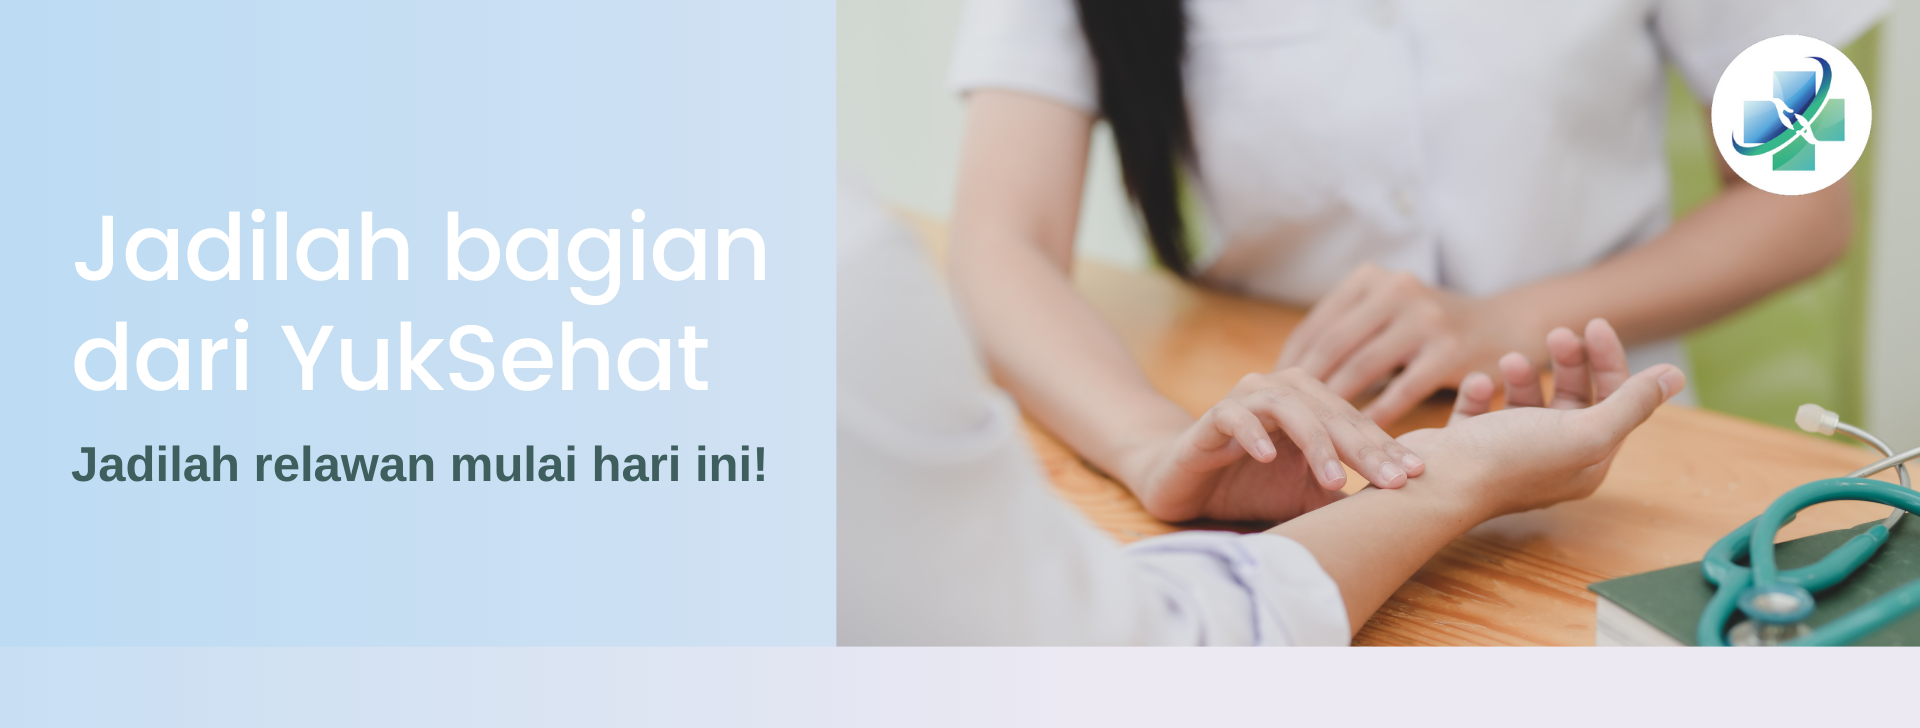
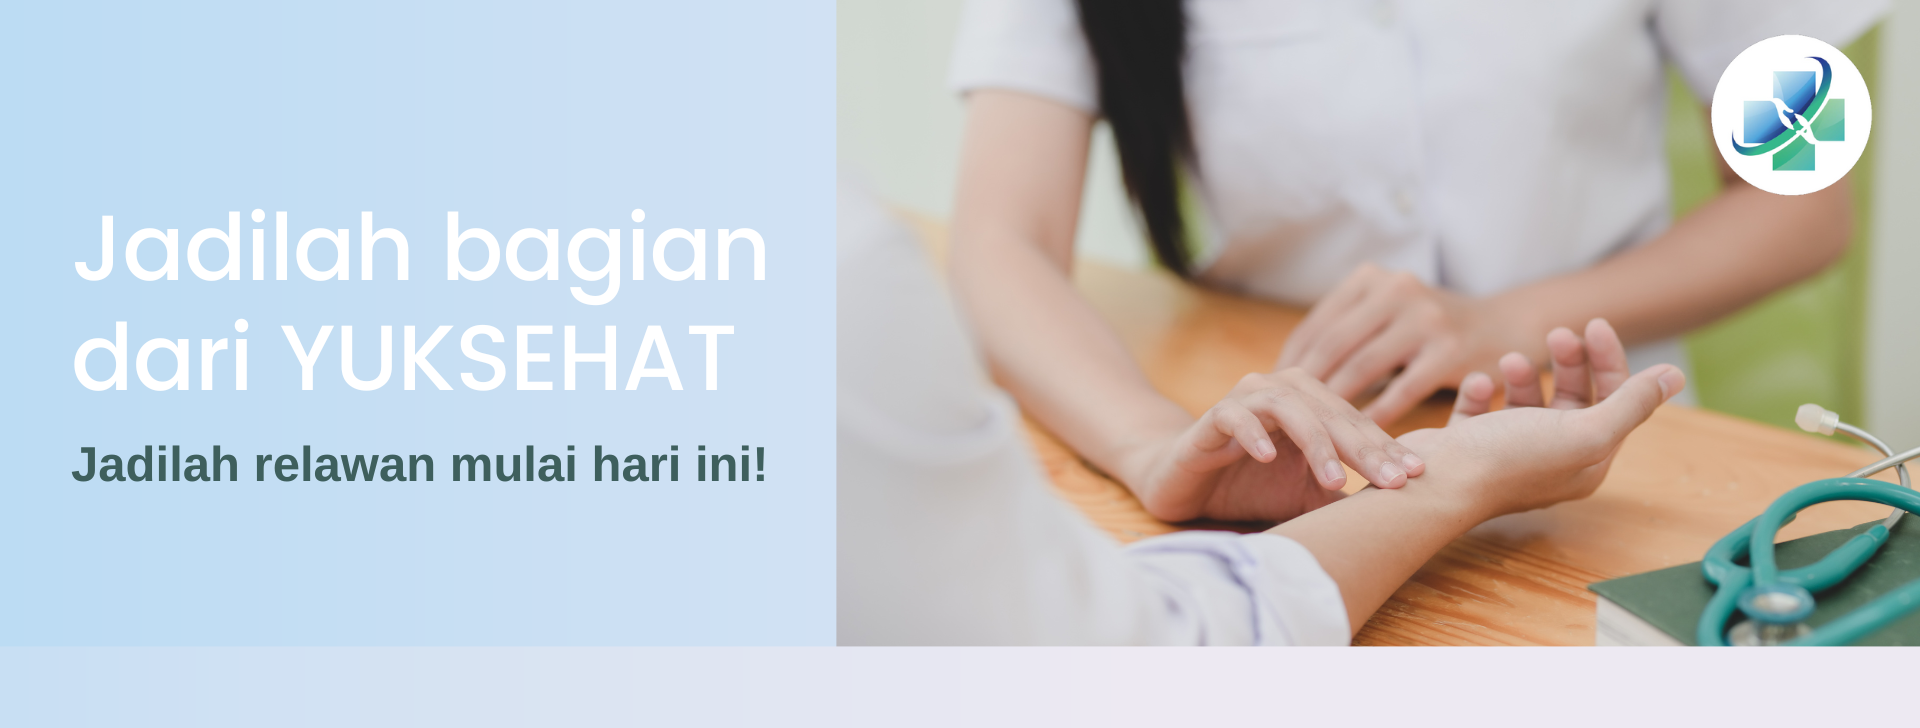
Add files via upload

Changed region(s): [[0.1875, 0.4231, 0.375, 0.544]]

diff --git a/home.html b/home.html
@@ -15,15 +15,23 @@
       crossorigin="anonymous"
       referrerpolicy="no-referrer"
     />
+    <!-- Font Judul-->
+    <link rel="preconnect" href="https://fonts.googleapis.com" />
+    <link rel="preconnect" href="https://fonts.gstatic.com" crossorigin />
+    <link href="https://fonts.googleapis.com/css2?family=Quicksand&display=swap" rel="stylesheet" />
+    <!-- Font Isi -->
+    <link rel="preconnect" href="https://fonts.googleapis.com" />
+    <link rel="preconnect" href="https://fonts.gstatic.com" crossorigin />
+    <link href="https://fonts.googleapis.com/css2?family=Montserrat:wght@200&display=swap" rel="stylesheet" />
   </head>
   <body>
     <!-- Navbar -->
-    <nav class="navbar navbar-expand-lg">
+    <nav class="navbar navbar-expand-lg fixed-top">
       <div class="container-fluid">
         <a class="navbar-brand" href="#">
           <img src="/images/logo.png" alt="" width="50" height="50" />
         </a>
-        <a class="navbar-brand" href="#">YukSehat</a>
+        <a class="navbar-brand fw-bold text-white" href="#">YUKSEHAT</a>
         <button class="navbar-toggler" type="button" data-bs-toggle="collapse" data-bs-target="#navbarNav" aria-controls="navbarNav" aria-expanded="false" aria-label="Toggle navigation">
           <span class="navbar-toggler-icon"></span>
         </button>
@@ -58,7 +66,7 @@
 
     <!-- Carousel -->
 
-    <section class="">
+    <section style="margin-top: 4.75rem">
       <div id="carouselExampleFade" class="carousel slide carousel-fade" data-bs-ride="carousel">
         <div class="carousel-inner m-0">
           <div class="carousel-item active">
@@ -87,20 +95,32 @@
     <section class="my-3">
       <div class="container">
         <div class="row d-flex justify-content-center">
-          <div class="col-md-12 text-center"><h1 class="display-3 mb-5">SELAMAT DATANG DI SITUS YUK SEHAT</h1></div>
+          <div class="col-md-12 text-center"><h1 class="display-3 mb-5">Selamat Datang di Situs YUKSEHAT</h1></div>
           <div class="card border border-0">
             <div class="card-body">
               <div class="row">
-                <div class="col-md-2"></div>
-                <div class="col-md-8 d-flex justify-content-center border border-5 rounded-3 rounded-pill">
-                  <img src="https://source.unsplash.com/300x300/?businessman" class="rounded-circle img-responsive img-fluid fitur" />
-                  <img src="https://source.unsplash.com/300x300/?businessman" class="rounded-circle img-responsive img-fluid fitur" />
-                  <img src="https://source.unsplash.com/300x300/?businessman" class="rounded-circle img-responsive img-fluid fitur" />
-                  <img src="https://source.unsplash.com/300x300/?businessman" class="rounded-circle img-responsive img-fluid fitur" />
-                  <img src="https://source.unsplash.com/300x300/?businessman" class="rounded-circle img-responsive img-fluid fitur" />
-                  <img src="https://source.unsplash.com/300x300/?businessman" class="rounded-circle img-responsive img-fluid fitur" />
+                <div class="col-md-1"></div>
+                <div class="col-md-2 text-center">
+                  <img src="/images/obat.jpg" class="rounded-circle border border-3 img-responsive img-fluid fitur" />
+                  <p>Daftar Penyakit & Obat</p>
                 </div>
-                <div class="col-md-2"></div>
+                <div class="col-md-2 text-center">
+                  <img src="/images/calculator.jpg" class="border border-3 rounded-circle img-responsive img-fluid fitur kalku" />
+                  <p>Kalkulator Kesehatan</p>
+                </div>
+                <div class="col-md-2 text-center">
+                  <img src="/images/hospital.jpg" class="border border-3 rounded-circle img-responsive img-fluid fitur" />
+                  <p>Periksa Rumah Sakit</p>
+                </div>
+                <div class="col-md-2 text-center">
+                  <img src="/images/doctor.jpg" class="border border-3 rounded-circle img-responsive img-fluid fitur" />
+                  <p>Tanya Dokter</p>
+                </div>
+                <div class="col-md-2 text-center">
+                  <img src="/images/artikel.jpg" class="border border-3 rounded-circle img-responsive img-fluid fitur" />
+                  <p>Artikel</p>
+                </div>
+                <div class="col-md-1"></div>
               </div>
             </div>
           </div>
@@ -112,19 +132,26 @@
     <!-- Informasi -->
     <section style="height: auto">
       <div class="container">
-        <h1 class="text-center display-3 mb-5">SEKILAS INFORMASI</h1>
+        <h1 class="text-center display-3 mb-3">SEKILAS INFORMASI</h1>
         <div class="row my-3 align-self-center justify-content-md-center">
           <div class="col-md-5">
             <img class="infromasisatu" src="images/informasi-satu.png" />
           </div>
           <div class="col-md-7 align-self-center justify-content-md-center">
-            Lorem ipsum dolor sit, amet consectetur adipisicing elit. Porro, provident quisquam libero asperiores veniam odit nesciunt repudiandae voluptas dicta unde accusamus aliquid ex, fugit magni dolorum vel est nihil rerum.
+            <h3 class="fw-bold">Potensi Masyarakat Pakai Layanan Kesehatan Digital</h3>
+            <p style="text-align: justify">
+              Medix Group, penyedia solusi manajemen medis global, mencatat terdapat 92 persen masyarakat Indonesia akan memanfaatan layanan kesehatan digital pada 2022. CEO & Presiden Medix Sigal Atzmon menjabarkan, angka tersebut
+              mengalami kenaikan yang signifikan dari 64 persen masyarakat yang menggunakan aplikasi digital sebelum pandemi Covid-19.
+            </p>
           </div>
         </div>
-        <div class="row my-3">
+        <div class="row mb-3">
           <div class="col-md-7 align-self-center justify-content-md-center">
-            Lorem ipsum dolor sit amet, consectetur adipisicing elit. Nam, impedit. Nostrum cum odio, tenetur officiis a doloribus voluptatibus animi, nobis, consectetur inventore iste quibusdam culpa? Odit ex reprehenderit perspiciatis
-            sapiente?
+            <h3 class="fw-bold text-end">Kesadaran Masyarakat Indonesia terhadap Kesehatan Kian Meningkat</h3>
+            <p style="text-align: justify">
+              Berdasarkan data Nielsen's New Global Health and Ingredient-Sentiment Survey yang dirilis akhir 2016 mengenai pola makan masyarakat modern di Indonesia menunjukkan, 70% responden menjalani diet tertentu untuk menghindari
+              berbagai penyakit degeneratif. Survei tersebut juga menunjukkan 68% responden mulai berinvestasi lebih pada makanan dengan kandungan yang sesuai diet mereka.
+            </p>
           </div>
           <div class="col-md-5 order-sm-1">
             <img class="infromasidua" src="images/informasidua.png" />
@@ -153,19 +180,18 @@
                   <div class="row p-4">
                     <div class="t-card">
                       <i class="fa fa-quote-left" aria-hidden="true"></i>
-                      <p class="lh-lg">Review goes here...</p>
+                      <p class="lh-lg">Website ini sangat membantu saya dalam mencari keberadaan rumah sakit dan bertanya kepada dokter spesialis</p>
                       <i class="fa fa-quote-right" aria-hidden="true"></i><br />
                     </div>
                     <div class="row">
                       <div class="col-sm-2 pt-3">
-                        <img src="https://source.unsplash.com/300x300/?girl" class="rounded-circle img-responsive img-fluid" />
+                        <img src="/images/david.jpg" class="rounded-circle img-responsive img-fluid" />
                       </div>
-                      <div class="col-sm-10">
-                        <div class="arrow-down d-none d-lg-block"></div>
-                        <h4><strong>Sunaina Samuel</strong></h4>
+                      <div class="col-sm-10 text-dark my-auto">
+                        <h4><strong>Yehezkiel David Setiawan</strong></h4>
                         <p class="testimonial_subtitle">
-                          <span>Associate Software Engineer</span><br />
-                          <span>CodeHim</span>
+                          <span>Software Engineer</span><br />
+                          <span>Maranatha Christian University</span>
                         </p>
                       </div>
                     </div>
@@ -175,19 +201,19 @@
                   <div class="row p-4">
                     <div class="t-card">
                       <i class="fa fa-quote-left" aria-hidden="true"></i>
-                      <p class="lh-lg">Review goes here...</p>
+                      <p class="lh-lg">Website ini sangat membantu saya dalam mencari keberadaan rumah sakit dan bertanya kepada dokter spesialis</p>
                       <i class="fa fa-quote-right" aria-hidden="true"></i><br />
                     </div>
-                    <div class="row">
+
+                    <div class="row d-flex justify-content-center">
                       <div class="col-sm-2 pt-4">
-                        <img src="https://source.unsplash.com/300x300/?man" class="rounded-circle img-responsive img-fluid" />
+                        <img src="/images/arthur.png" class="rounded-circle img-responsive img-fluid" />
                       </div>
-                      <div class="col-sm-10">
-                        <div class="arrow-down d-none d-lg-block"></div>
-                        <h4><strong>Esther Zawadi</strong></h4>
+                      <div class="col-sm-10 text-dark my-auto">
+                        <h4><strong>Cristianto Tri Arthurito</strong></h4>
                         <p class="testimonial_subtitle">
-                          <span> digital strategist</span><br />
-                          <span>Vaxa digital</span>
+                          <span>Software Engineer</span><br />
+                          <span>Maranatha Christian University</span>
                         </p>
                       </div>
                     </div>
@@ -197,19 +223,18 @@
                   <div class="row p-4">
                     <div class="t-card">
                       <i class="fa fa-quote-left" aria-hidden="true"></i>
-                      <p class="lh-lg">Review goes here...</p>
+                      <p class="lh-lg">Website ini sangat membantu saya dalam mencari keberadaan rumah sakit dan bertanya kepada dokter spesialis</p>
                       <i class="fa fa-quote-right" aria-hidden="true"></i><br />
                     </div>
                     <div class="row text-lg-start">
                       <div class="col-sm-2 pt-4 align-items-center">
-                        <img src="https://source.unsplash.com/300x300/?businessman" class="rounded-circle img-responsive img-fluid" />
+                        <img src="/images/Willy.jpg" class="rounded-circle img-responsive img-fluid" />
                       </div>
-                      <div class="col-sm-10">
-                        <div class="arrow-down d-none d-md-block"></div>
-                        <h4><strong>Patrick muriungi</strong></h4>
+                      <div class="col-sm-10 text-dark my-auto">
+                        <h4><strong>Willyandie Saputra</strong></h4>
                         <p class="testimonial_subtitle">
-                          <span>Web Technologist</span><br />
-                          <span>Vaxa digital</span>
+                          <span>Software Engineer</span><br />
+                          <span>Maranatha Christian University</span>
                         </p>
                       </div>
                     </div>

diff --git a/css/style.css b/css/style.css
@@ -3,6 +3,9 @@
   padding: 0;
 }
 
+body {
+  font-family: 'Montserrat', sans-serif;
+}
 .navbar {
   background-color: #2596be;
   color: white;
@@ -10,6 +13,7 @@
 
 .navbar-brand {
   font-size: 1.5rem;
+  font-family: 'Saira Condensed', sans-serif;
 }
 
 .infromasisatu {
@@ -32,6 +36,9 @@
   width: 100%;
   max-width: 100px;
   margin: 1rem;
+}
+.kalku {
+  padding: 5px;
 }
 
 /* Testimoni */
